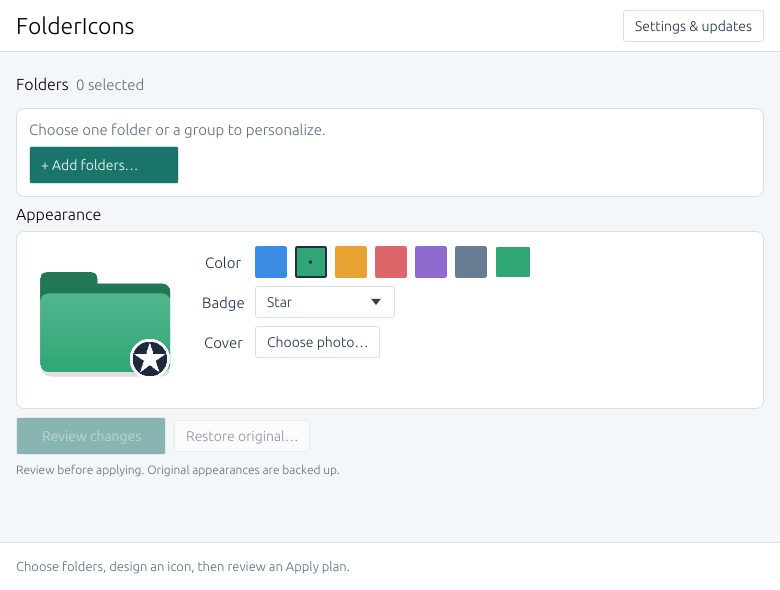
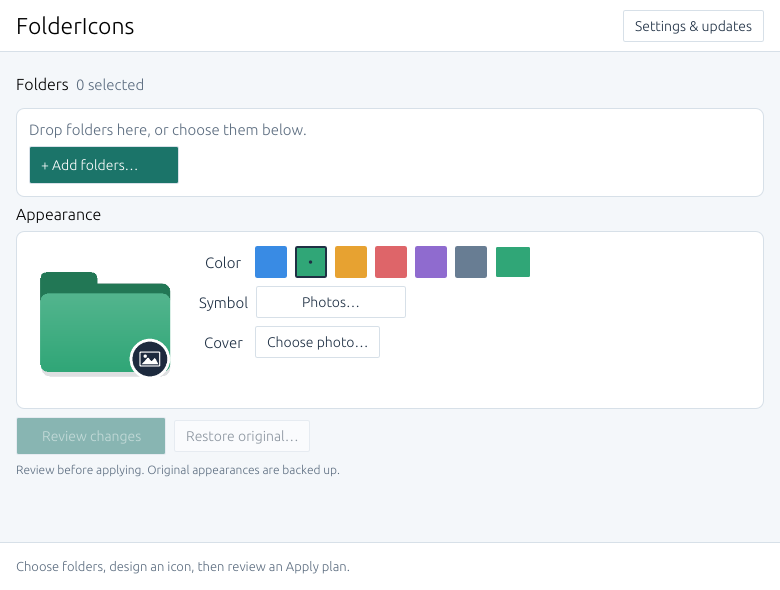
Document folder drops and themed symbol verification

diff --git a/src/desktop.rs b/src/desktop.rs
@@ -535,6 +535,11 @@ impl ApplicationHandler<Event> for Host {
             .on_window_event(window, &event);
         match event {
             WindowEvent::CloseRequested => {
+                if self.diagnostic.is_some() && !el.exiting() {
+                    self.error=Some("Rendering diagnostic cancelled before completion; no runtime result was produced.".into());
+                    el.exit();
+                    return;
+                }
                 self.app.logic(&self.context);
                 if self.app.local_busy || self.app.installing {
                     self.app.message =

diff --git a/docs/TESTING.md b/docs/TESTING.md
@@ -9,9 +9,9 @@ cargo clippy --locked --offline --all-targets -j 2 -- -D warnings
 ./scripts/package.ps1 -Offline
 ```
 
-The implementation/follow-up session used Windows x64 and Rust 1.96.1. All 13 engine tests passed, formatting passed, Clippy passed with `-D warnings`, and the optimized x64 release was packaged. Cargo's incremental-cache hard-link warnings are environment-level file-copy fallbacks, not source lint failures.
+The implementation/follow-up session used Windows x64 and Rust 1.96.1. All 19 tests passed (16 library and 3 application tests), formatting passed, Clippy passed with `-D warnings`, and the optimized x64 release was packaged. Cargo's incremental-cache hard-link warnings are environment-level file-copy fallbacks, not source lint failures.
 
-Tests cover ICO roundtrip/all badges, photo embedding and bounded decoding, INI text/encoding handling, reapply/restore byte and attribute preservation, stale plans and external-edit rejection, pending journals, malformed manifests, external deletion/foreign-file preservation, and release/checksum parsing. Fixtures live under ignored `.test-output`. The first session encountered access-denied rename failures in the sandbox's virtualized system Temp; repository-local fixtures passed without elevation.
+Tests cover distinct artwork and multi-size ICO roundtrips for all 17 symbols, photo embedding and bounded decoding, INI text/encoding handling, reapply/restore byte and attribute preservation, stale plans and external-edit rejection, pending journals, malformed manifests, external deletion/foreign-file preservation, and release/checksum parsing. Selection tests cover Unicode folders, files/missing paths, case/alias duplicates and limits. Application tests cover queued drops during preview/planning, rejection of late review results and a symbol catalog that stops scheduling after loading. These tests inject paths/events; they do not perform a physical Explorer drag. Fixtures live under ignored `.test-output`. The first session encountered access-denied rename failures in the sandbox's virtualized system Temp; repository-local fixtures passed without elevation.
 
 Packaging never launches the normal application or updater. Its byte verifier checks x64 PE32+, the Windows GUI subsystem and the matching SHA-256 sidecar. These checks do not certify deployment or responsiveness. The final checksum is in `dist/FolderIcons-v0.1.0.exe.sha256`.
 
@@ -21,7 +21,9 @@ The initial OpenGL build was reported to cause severe lag. It was replaced by eg
 
 The real host instruments UI/raster frames, GDI presents, their wall time, own-process CPU time, repaint causes and non-sensitive input-event counts. Diagnostics use the optimized application, isolated fixtures, no startup network/settings loading, a 30-second internal limit and a 35-second external limit. They show, hide, restore and exit only the owned test instance. No computer-use tools are required.
 
[2 lines of base64/hex data omitted]
+
[1 lines of base64/hex data omitted]
 
 | State | Duration | UI/raster frames | GDI presents | CPU, one logical core |
 | --- | ---: | ---: | ---: | ---: |
@@ -47,13 +49,15 @@ $fixtureRoot = ./scripts/create-visual-fixtures.ps1
 
 The fixture creator refuses to claim unmarked existing directories. It creates disposable folders, a Unicode INI and an original geometric PNG. Capture mode runs the production UI and software renderer for exactly four finite passes, writes PNG/metadata files, and exits. Each child has an external 12-second timeout. It does not use computer use, native dialogs, a desktop screenshot service, normal user settings, network requests, registry registration, the updater or folder mutations. The review scenario reads real plans without executing them.
 
-Main/editor, Settings, empty and confirmation captures were opened as actual PNG files and inspected. The compact follow-up removed the tall header and permanent sidebar, grouped folders into one list, and placed the preview beside appearance controls. Confirmation has its own compact state with exact paths and a Back action. Font sizes and action target sizes were preserved. A 740 × 560 logical viewport at 150% scale was also inspected; content scrolls rather than shrinking text. README images are 780 × 590 logical/physical pixels at 100% scale. They capture the client surface, not native title bars, Explorer or OS dialogs.
+All nine generated states were inspected as actual PNG files: main/editor, Settings, empty, confirmation, drop hover, the Content/Organization/Status symbol categories and the compact 150% layout. The compact follow-up removed the tall header and permanent sidebar, grouped folders into one list, and placed the preview beside appearance controls. Confirmation has its own compact state with exact paths and a Back action. The symbol picker uses cached thumbnails from the same renderer as the ICO artwork, with a height fitted to each category. Font sizes and action target sizes were preserved. The [740 × 560 logical viewport at 150% scale](screenshots/compact.png) scrolls rather than shrinking text. README images are 780 × 590 logical/physical pixels at 100% scale. They capture the client surface, not native title bars, Explorer or OS dialogs. The drop-hover image establishes the target's appearance only.
 
 PNG and JSON files in `docs/screenshots` are real application output. Metadata records scenario, renderer and scale. CI creates isolated fixtures and captures these production screens without opening native windows.
 
 ## Remaining manual acceptance
 
 - Confirm perceived smoothness and responsiveness on the user's desktop. No screenshot or CPU sample replaces that confirmation.
+- Complete a fresh bounded native rendering diagnostic for the current packaged binary, including settled visible, hidden and restored states.
+- Physically drag folders from Explorer onto empty, populated and review states; verify hover/cancel, multiple folders, duplicate/file rejection and queued intake during work. Source and injected-event tests cover these paths; native gesture acceptance remains unverified.
 - Verify keyboard traversal, accessibility actions, native folder/photo dialogs, pointer/scroll/resize behavior and actual DPI changes; the static 150% capture checks layout only.
 - Through the GUI, Apply to a disposable folder and a batch with Unicode/spaces, reapply, then Restore. Confirm Explorer refresh and exact original INI/attributes. Engine tests pass; live GUI Apply/Restore was not completed before computer use was stopped and subsequently excluded.
 - Inspect visible restore/minimize behavior and fonts/resources on the real screen. Counts verify quiet hidden operation and a restore frame, not visual correctness of every OS interaction.

diff --git a/README.md b/README.md
@@ -2,12 +2,12 @@
 
 An independent Windows desktop tool for original folder colors, badges and photo covers. Built in Rust with an egui desktop interface. MIT licensed. Inspired by the folder-organization use case of [FolderIco](https://www.folderico.com/); no affiliation, copied code or competitor assets.
 
-**Status: local first version with a CPU-rendered interface, verified client-area captures and bounded idle/hidden diagnostics.** Interactive acceptance is still incomplete. No repository or release has been published by this session. Planned canonical repository: [siarheisinelnikau/folder-icons](https://github.com/siarheisinelnikau/folder-icons).
+**Status: local first version with a CPU-rendered interface and verified client-area captures.** Interactive acceptance and the current build's runtime gate are incomplete; an earlier compact build passed bounded idle/hidden diagnostics. No repository or release has been published by this session. Planned canonical repository: [siarheisinelnikau/folder-icons](https://github.com/siarheisinelnikau/folder-icons).
 
 ## Capabilities
 
-- Select up to 128 folders, individually or in a batch. Apply only to selected folders; no recursive traversal.
-- Six original procedural color themes, custom RGB colors, and Star, Done, Favorite, Work and Priority badges.
+- Drop folders from Explorer anywhere in the window, or use **Add folders…**. Read-only validation runs on the file worker, skips duplicates/files/unsupported paths and keeps selection within 128 folders. Dropping never moves files or applies icons automatically.
+- Six original color themes, custom RGB colors and **17 original folder symbols** (badges), grouped into Content, Organization and Status. The visual picker includes documents, photos, music, videos, code, games, work, downloads, archive, finance, study, travel, lock and status markers. **No symbol** removes the badge.
 - PNG/JPEG photo covers with centered crop and an in-app live preview. Photos are embedded in the ICO and are never modified.
 - Review an Apply or Restore plan before any appearance change. Each folder has its own result; a failure does not undo successful folders in the batch.
 - Generate RGBA ICO files containing 16, 24, 32, 48, 64, 128 and 256 pixel frames.
@@ -36,12 +36,14 @@ Build output is repository-local. Cargo is limited to two jobs. The x64 MSVC con
 ## Use
 
 1. Start the portable EXE from a writable, permanent location.
-2. Click **Add folders…**, select folders, and choose a theme, badge and/or photo. The large preview shows the resulting artwork.
+2. Drag one or several folders from Explorer into the window, or click **Add folders…**. Choose a color, open **Symbol** for the visual picker, and optionally select a photo cover. The preview shows the resulting artwork.
 3. Click **Review changes**. Review the exact folders and expand **Files and recovery details** if needed. Unsupported folders are listed as skipped.
 4. Click **Apply to folders**. Read each result. Explorer may refresh lazily; reopening the folder or pressing Refresh may be needed. The application sends a targeted shell notification only after an explicit successful action.
 5. To undo, select the same folders, click **Restore original…**, then **Restore folders**. Repeated Apply retains the original first backup, rather than replacing it with an already customized state.
 
 Paths passed on the command line preselect folders without changing them. Example: `FolderIcons-v0.1.0.exe "D:\Projects\Sample"`.
+
+The window highlights the drop target while items are dragged over it. New folders are queued if a file operation is already running; duplicate, unsupported and over-limit items are summarized in the status line. A drop returns to the editor and invalidates any existing review, so the changed selection must be reviewed again.
 
 Settings live in `%LOCALAPPDATA%\FolderIcons\settings.json`. **Settings & updates** shows the installed version, startup-check toggle, manual update action, and Explorer integration controls. The context menu opens this editor with a folder selected; on Windows 11 it may appear in **Show more options**. Remove it before moving/deleting the executable, or enable it again from the new location.
 
@@ -67,12 +69,16 @@ The executable directory must be writable. Rollback files `*.exe.previous-VERSIO
 
 These are real client-area PNGs generated by the application's production UI and CPU rasterizer in an isolated render-save-exit mode. They show disposable fixtures, including a generated sample cover. Captures do not exercise native dialogs, title bars or input handling.
 
-![Compact FolderIcons editor with two test folders, a photo cover and a star badge](docs/screenshots/main.png)
+![Compact FolderIcons editor with two test folders, a photo cover and a Photos symbol](docs/screenshots/main.png)
 
 Main editor, 780 × 590 logical pixels at 100% scale. The [review step](docs/screenshots/review.png) shows the exact folders before confirmation.
 
 ![FolderIcons settings with startup update checks and optional Explorer shortcut controls](docs/screenshots/settings.png)
 
 Settings & updates, the same viewport and scale. The capture performs no network requests or registry changes.
+
+![Visual picker showing original document, photo, music, video, code and game symbols](docs/screenshots/symbols.png)
+
+The Content category. Additional [Organization](docs/screenshots/symbols-organization.png) and [Status](docs/screenshots/symbols-status.png) categories use the same original artwork and visual style. The [drop target capture](docs/screenshots/drop.png) shows the drag-hover appearance; it does not certify a physical Explorer drag gesture.
 
 See [verification notes](docs/TESTING.md) for reproducible capture commands, a compact 150% scale view and the remaining interactive checks. Computer use is not required to regenerate these images.

diff --git a/docs/ARCHITECTURE.md b/docs/ARCHITECTURE.md
@@ -8,6 +8,8 @@
 
 `engine` has no dialogs, registry writes, network calls or shell notifications. Plan creation reads bounded files and captures the canonical folder path, current INI bytes/attributes, folder attributes and current recovery manifest. Execution takes a per-folder exclusive create-new lock, rechecks those snapshots, and refuses a stale plan. Plans are not persisted between app launches. The UI accepts at most 128 selected folders.
 
+`selection` provides read-only intake shared by native drops and the picker. It canonicalizes regular directory paths, rejects unsafe/reparse/file/root inputs, deduplicates Windows paths case-insensitively and reports selection/batch limits. The window callback only queues paths; metadata I/O stays on the serial file worker. The 256-item pending queue coalesces native per-file drop events for 80 ms and runs after an existing job completes. No files are copied/moved and no Apply is triggered by intake.
+
 `platform` isolates UTF-16 Win32 paths, file attributes, atomic same-directory replacement, targeted shell notifications and opt-in HKCU context menu registration. The engine's tests modify attributes only on disposable fixture folders. They never notify Explorer or register the context menu. Read-only core planning/rendering logic is portable; applying appearance is supported only through the Windows application.
 
 `settings` writes the startup preference atomically outside the installation directory. Missing settings use startup checks enabled. Malformed/unreadable settings disable automatic requests for the session and show a diagnostic rather than discarding the persisted preference silently.
@@ -24,9 +26,15 @@ There is no tray behavior: this is a folder styling editor, not a background mon
 
 The default client viewport is 780 × 590 logical pixels, with a 740 × 560 minimum. Native window creation and capture defaults share the same dimensions. The editor uses a single vertical workflow with an inline preview/form; a nonempty plan selects the confirmation view without duplicating folder-selection UI. Back or Cancel clears the plan and preserves the design and selected folders. Settings is centered and constrained to the viewport.
 
+Winit's pinned Windows backend enables OLE drag/drop by default. `HoveredFile`, `HoveredFileCancelled` and `DroppedFile` are handled directly by the host, without double-processing egui's copied drop payload. Hover redraws only when its state changes. A separate plan generation prevents a late plan from reappearing after a queued drop; preview revisions remain independent. Pending intake/preview deadlines also participate directly in `WaitUntil`, so processing cannot depend on another pointer event after a drop.
+
+The 17 symbols use original analytic geometry, four-sample edge antialiasing and one shared badge renderer for ICO output and the visual catalog. Catalog thumbnails are generated once on the file worker and cached as textures; opening the picker after loading does not schedule more work. The picker groups Content, Organization and Status instead of an unstructured emoji list. Existing serialized badge identifiers are retained.
+
 ## Isolated visual review
 
 `--capture OUTPUT --screen main|settings --scenario empty|populated|review|error` selects a real application screen and executes four finite offscreen passes using the production UI and CPU renderer. Width/height are logical pixels; `--scale` determines physical output size. Populated scenarios require an absolute `--fixture-root` containing disposable folders and optionally `cover.png`. Review reads actual plans without executing them. Capture bypasses normal settings loading, startup checks and background actions, writes the PNG and metadata atomically, and exits. An external 12-second timeout bounds the script invocation.
+
+Additional real-component capture states are `--scenario drop` and screens `symbols`, `symbols-organization`, `symbols-status`. These set the actual UI state and preload the same catalog without synthesizing a native drag or input gesture. An early native diagnostic close returns a cancellation error. The script requests a unique report file for each diagnostic run and promotes only that fresh report to `performance.json`.
 
 `--diagnose OUTPUT [FIXTURE_ROOT]` runs a separate isolated native CPU/GDI window through visible idle, hidden, restore and return-to-idle intervals, then exits. Input-contaminated intervals are labeled and retried within a 30-second overall diagnostic budget. The external script limit is 35 seconds. A failed gate is an explicit JSON result, never inferred as success from low CPU alone. GPU/driver telemetry is unavailable; desktop composition is not disabled.
 

diff --git a/CHANGELOG.md b/CHANGELOG.md
@@ -6,7 +6,9 @@ FolderIcons introduces a portable Windows folder appearance editor with original
 
 ### Added
 
-- Six color themes, custom RGB colors, five badges and PNG/JPEG photo covers with live preview.
+- Six color themes, custom RGB colors, 17 original symbols and PNG/JPEG photo covers with live preview.
+- Native Explorer folder-drop handling, a highlighted target, bounded background validation, duplicate rejection and status feedback. Drops only update the selection.
+- A compact visual symbol picker grouped into Content, Organization and Status, with matching anti-aliased artwork in preview and ICO output.
 - Batch selection and reviewed Apply/Restore plans with per-folder results.
 - Multi-resolution RGBA ICO generation and folder-local relative icon references.
 - Preservation of unrelated desktop.ini settings, exact original-content backup, interrupted-operation journal and conservative conflict detection.
@@ -22,9 +24,11 @@ FolderIcons introduces a portable Windows folder appearance editor with original
 - Initialize accessibility before showing the native window, avoiding a startup panic.
 - Stop scheduling waits after an exit request so the process can shut down normally.
 - Discard stale repaint deadlines and duplicate unchanged pointer positions; preserve a quiet idle/hidden window and the retained bitmap for restore.
+- Invalidate in-flight review results after a folder drop and keep queued intake timers independent of UI repaint timing.
+- Treat an early diagnostic-window close as cancellation; use fresh report paths so an old rendering result cannot be mistaken for a new pass.
 
 ### Platform and validation limits
 
 Initial target: Windows 10/11 x64, one architecture. Planned standalone asset: `FolderIcons-v0.1.0.exe`, with its `.exe.sha256` checksum and license notices. No release is currently published. Binary is unsigned. The application rasterizes on the CPU and presents with Windows GDI.
 
-Automated validation covers 13 engine tests, local compilation, real production-UI client captures and bounded visible/hidden/restore diagnostics; see [verification notes](docs/TESTING.md) for exact results. Perceived responsiveness, native dialogs, live Apply/Restore, Explorer appearance/integration, clean-machine deployment and an end-to-end update remain pending. Legacy non-Unicode INI code pages and reparse/cloud placeholder folders are deliberately refused. Do not describe deferred checks as passed when publishing this draft.
+Automated validation covers 19 library/application tests, local compilation and production-UI captures of the editor, settings, themed symbols and drop target. An earlier compact build passed bounded visible/hidden/restore diagnostics; the latest post-drop runtime attempt ended before its report and is not a pass. Physical Explorer drag/drop, perceived responsiveness, native dialogs, live Apply/Restore, Explorer appearance/integration, clean-machine deployment and an end-to-end update remain pending. See [verification notes](docs/TESTING.md). Legacy non-Unicode INI code pages and reparse/cloud placeholder folders are deliberately refused.
